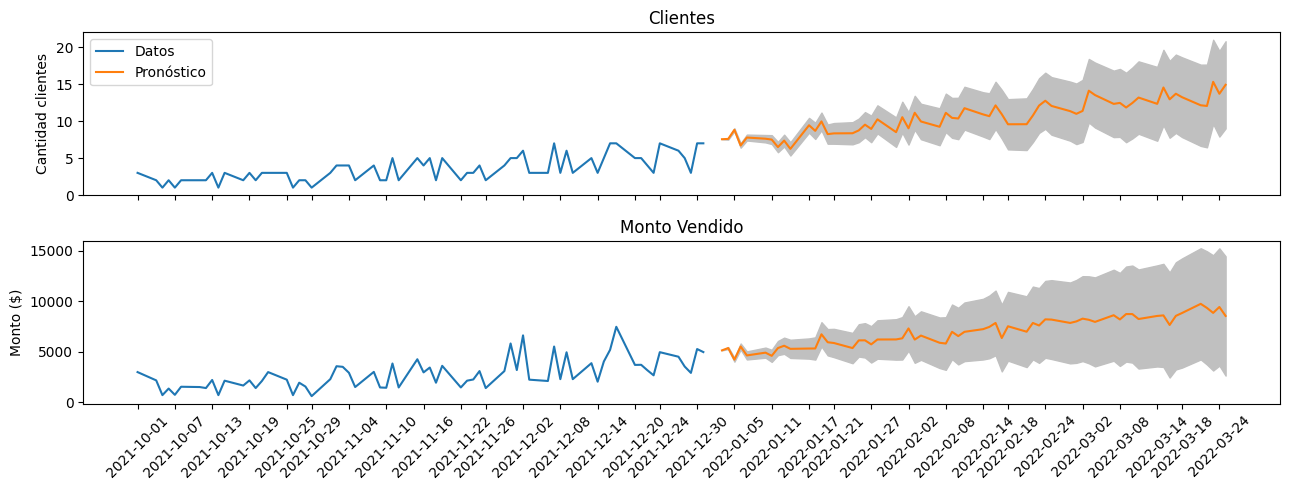
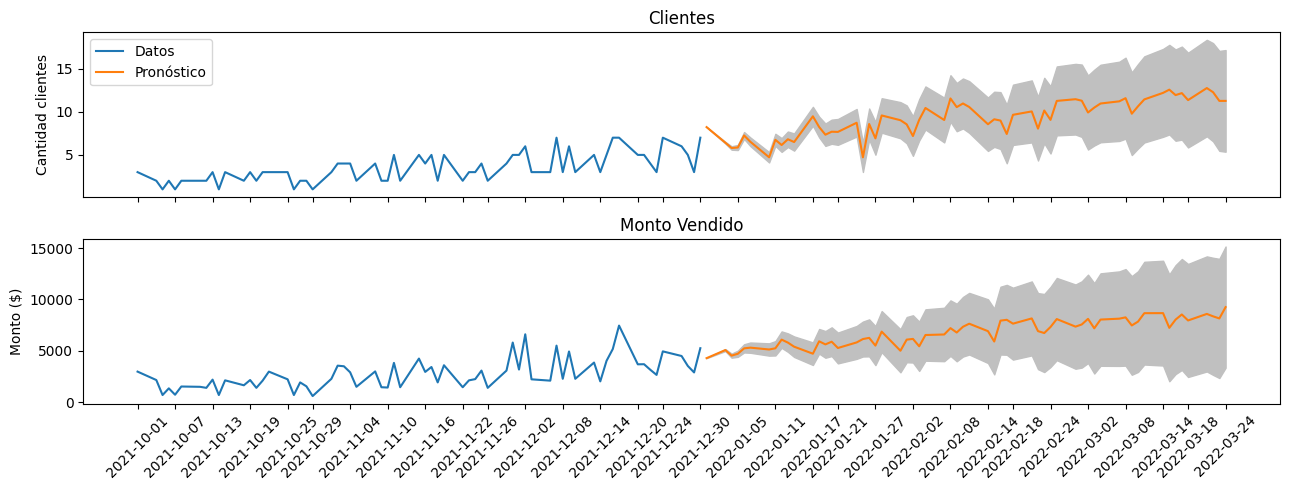
Update 2

diff --git a/app/views/templates/emprendimientos/proveedores/lista_productos.html b/app/views/templates/emprendimientos/proveedores/lista_productos.html
@@ -67,14 +67,14 @@
   <table class="table table-hover w-100" id="proveedorProductsTable">
     <thead class="info-color white-text">
       <tr>
-        <th class="text-center" style="font-size: 1.3rem;">Nombre</th>
-        <th class="text-center" style="font-size: 1.3rem;">Stock</th> 
+        <th class="text-center">Nombre</th>
+        <th class="text-center">Stock</th> 
       </tr>
     </thead>  
     {% for articulo in articulos %}
     <tr>
-      <td class="text-center" style="font-size: 1.3rem;">{{articulo.nombre}}</td>
-      <td class="text-center" style="font-size: 1.3rem;">{{articulo.stock_actual}}</td>
+      <td class="text-center">{{articulo.nombre}}</td>
+      <td class="text-center">{{articulo.stock_actual}}</td>
     </tr>
     {% endfor %}
   </table>

diff --git a/app/views/templates/layout.html b/app/views/templates/layout.html
@@ -7,7 +7,7 @@
     <meta name="description" content="{{ description }}">
     <link rel="shortcut icon" href="{{ url_for('static', filename='img/favicon.png') }}" />
     <meta name="HandheldFriendly" content="True" />
-    <meta name="viewport" content="width=device-width, initial-scale=1.0, viewport-fit=cover" />
+    <!-- <meta name="viewport" content="width=device-width, initial-scale=1.0, viewport-fit=cover" /> -->
     <meta name="theme-color" content="#5eb9d7" />
 
     <!-- Font Awesome -->

diff --git a/app/views/templates/emprendimientos/productos/producto_editar.html b/app/views/templates/emprendimientos/productos/producto_editar.html
@@ -104,7 +104,7 @@
                 </div>
                 <div class="md-form">
                     <label class="form-label" id="precio_label">Precio de venta</label>
-                    <input class="form-control" type="number" name="precio" id="precio" value="{{precio_producto.precio}}" required />
+                    <input class="form-control" type="number" name="precio" id="precio" step=0.01 value="{{precio_producto.precio}}" required />
                 </div>
 
             </div>

diff --git a/app/views/templates/emprendimientos/productos/producto_crear.html b/app/views/templates/emprendimientos/productos/producto_crear.html
@@ -103,7 +103,7 @@
               </div>
               <div class="md-form">
                   <label class="form-label" id="precio_label">Precio de venta</label>
-                  <input class="form-control" type="number" name="precio" id="precio" required />
+                  <input class="form-control" type="number" name="precio" id="precio" step=0.01 required />
               </div>
 
           </div>

diff --git a/app/views/templates/emprendimientos/ventas/lista_ventas.html b/app/views/templates/emprendimientos/ventas/lista_ventas.html
@@ -74,7 +74,7 @@
         <td class="text-center">{{venta.fecha}}</td>
         <td class="text-center">{{cliente.nombre}}</td>
         <td class="text-center">{{venta.total}}</td>
-        <td class="text-center"><p id="detalle{{venta.id_}}">Ver detalle</p></td>
+        <td class="text-center"><p id="detalle{{venta.id_}}" style="cursor: pointer;">Ver detalle</p></td>
       </tr>
       {% endfor %}
 

diff --git a/app/views/static/js/producto_form.js b/app/views/static/js/producto_form.js
@@ -56,7 +56,7 @@ $(document).ready(function() {
 function hideFields(){
     $("#id_proveedor").prop('disabled', true);
     $("#id_proveedor").attr('required', false);
-    $("#id_proveedor").value('No aplica');
+    $("#id_proveedor").prop("selectedIndex", 0);
     $("#stock_actual").prop('readonly', true);
     $("#stock_actual").attr('required', false);
     $("#costo").prop('readonly', true);

diff --git a/app/views/templates/emprendimientos/pedidos/lista_pedidos.html b/app/views/templates/emprendimientos/pedidos/lista_pedidos.html
@@ -148,7 +148,6 @@
         </button>
       </div>
       <div class="modal-body">
-        <h3>Error</h3>
         <h4 id='modal-alert-text'></h4>
       </div>
     </div>

diff --git a/app/views/templates/emprendimientos/ventas/ventas.html b/app/views/templates/emprendimientos/ventas/ventas.html
@@ -133,7 +133,6 @@
         </button>
       </div>
       <div class="modal-body">
-        <h3>Error</h3>
         <h4 id='modal-alert-text'></h4>
       </div>
     </div>

diff --git a/app/routes/views/informe_ventas.py b/app/routes/views/informe_ventas.py
@@ -47,8 +47,6 @@ def plot_daily_df(df):
     axes[0].set_title('Clientes')
     axes[1].set_ylabel('Monto ($)')
     axes[1].set_title('Monto Vendido')
-
-
     
     plt.tight_layout()
     plt.savefig('app/views/static/images/informes/ventas_daily.png', bbox_inches='tight')
@@ -66,8 +64,6 @@ def plot_weekly_df(df):
     axes[0].set_title('Clientes')
     axes[1].set_ylabel('Monto ($)')
     axes[1].set_title('Monto Vendido')
-    
-    
     
     plt.tight_layout()
     plt.savefig('app/views/static/images/informes/ventas_weekly.png', bbox_inches='tight')
@@ -223,8 +219,12 @@ def informe_ventas():
         plot_weekly_df(ventas_weekly)
         plot_monthly_df(ventas_monthly)
 
-        trend(ventas_df)
-        forecast(ventas_df)
+        # Mask between dates
+        mask = (ventas_df.index >= '2021-10-01') & (ventas_df.index < '2021-12-31')
+        ventas_range = ventas_df[mask]
+
+        trend(ventas_range)
+        forecast(ventas_range)
         
         return render_template("emprendimientos/informes/informe_ventas.html",
                                 global_=global_,

diff --git a/app/models/test_script.py b/app/models/test_script.py
@@ -11,7 +11,7 @@ def create_test_database():
 
         ### Usuario
         usuario = Usuario(nombre='Gastón', 
-                            email='ga@mail.com',
+                            email='gastonamengual@icloud.com',
                             password='asd')
         usuario = usuarios_db.create(usuario)
 
